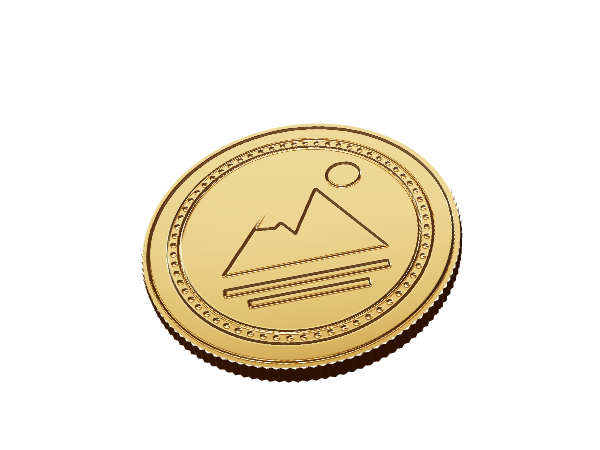
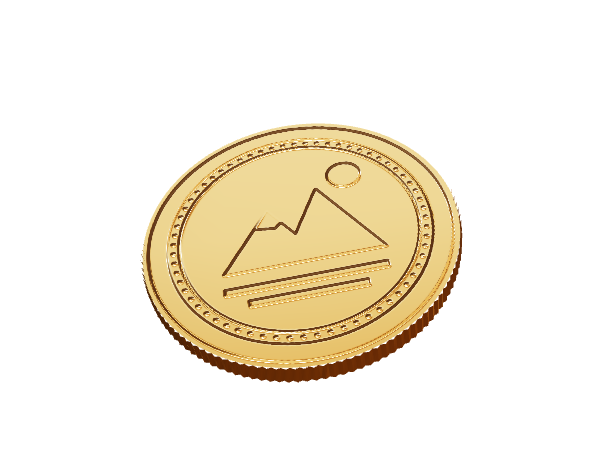
v6 stage 3: motion polish and a one-command deliverables script
- The thrower's hand rises, pulls back and flicks on the release.
- Card 1: the dice keep turning through the hang. Card 7: bigger dice.
- The coin stays gold while it tumbles (warm walls in its environment).
- tools/derive.sh levels the master to -16 LUFS and builds the screen
  loop, the 15 s cut (all cut points on beats) and the chat copies.

Claude-Session: https://claude.ai/code/session_01V1tqCn5oqZFzwntx9fbcEH

diff --git a/commercial/dice-explainer/compositions/s1.html b/commercial/dice-explainer/compositions/s1.html
@@ -49,9 +49,9 @@ tl.fromTo("#s1-hand", { y: 260, rotation: 4 }, { y: -40, rotation: -8, duration:
 tl.to("#s1-hand", { y: 30, rotation: -12, duration: 0.7, ease: "power1.out" }, 0.2917);
 tl.to("#s1-hand", { y: 700, rotation: -20, duration: 1.3, ease: "power2.in" }, 0.9917);
 DiceKit.bake(tl,"#s1-dA",0.0000,["x","y","scale","opacity"],[[215,620,0.3,0],[215,620,0.3,0],[215,620,0.3,0],[215,620,0.3,0],[215,620,0.3,0],[215,620,0.3,0],[215,620,0.3,0],[215.0,620.0,0.3,1],[189.2,536.9,0.384,1],[165.6,461.0,0.461,1],[144.0,391.9,0.531,1],[124.4,329.6,0.595,1],[106.7,273.9,0.653,1],[90.7,224.4,0.705,1],[76.4,181.0,0.751,1],[63.7,143.3,0.793,1],[52.5,110.9,0.829,1],[42.7,83.6,0.861,1],[34.2,60.9,0.889,1],[26.9,42.5,0.912,1],[20.7,27.9,0.933,1],[15.6,16.7,0.949,1],[11.3,8.4,0.963,1],[8.0,2.8,0.974,1],[5.3,-0.8,0.983,1],[3.4,-2.7,0.989,1],[1.9,-3.3,0.994,1],[1.0,-3.0,0.997,1],[0.4,-2.1,0.999,1],[0.1,-1.2,1.0,1],[0.0,-0.3,1.0,1],[0.0,0.0,1.0,1],[-1.0,-0.5,1.002,1],[-2.1,-1.0,1.004,1],[-3.1,-1.5,1.006,1],[-4.2,-2.0,1.008,1],[-5.3,-2.5,1.011,1],[-6.4,-3.0,1.013,1],[-7.6,-3.6,1.016,1],[-9.0,-4.2,1.019,1],[-10.4,-4.9,1.023,1],[-12.0,-5.6,1.028,1],[-13.9,-6.5,1.033,1],[-15.9,-7.4,1.039,1],[-18.3,-8.5,1.047,1],[-21.0,-9.8,1.056,1],[-24.1,-11.2,1.067,1],[-27.7,-12.9,1.079,1],[-31.8,-14.8,1.094,1],[-36.4,-17.0,1.111,1],[-41.8,-19.5,1.131,1],[-47.8,-22.3,1.154,1],[-54.7,-25.5,1.181,1],[-62.5,-29.2,1.211,1],[-71.3,-33.3,1.245,1],[-81.1,-37.9,1.284,1],[-92.1,-43.0,1.328,1],[-104.4,-48.7,1.377,1],[-118.1,-55.1,1.432,1],[-133.3,-62.2,1.492,1]]);
-DiceKit.spin(tl,"#s1-dA",0.0000,6,[0,0,0,0,0,0,0,0,1,1,2,3,4,4,5,6,7,7,8,9,10,10,11,12,13,13,14,15,16,16,17,17,17,17,18,18,18,18,19,19,19,19,19,20,20,20,20,20,21,21,21,21,21,22,22,22,22,23,23,23]);
+DiceKit.spin(tl,"#s1-dA",0.0000,6,[0,0,0,0,0,0,0,0,1,2,3,4,5,6,7,8,8,9,10,11,11,12,13,13,14,15,15,16,16,17,17,18,18,19,19,19,20,20,20,21,21,21,21,22,22,22,22,22,22,23,23,23,23,23,23,23,23,23,23,23]);
 DiceKit.bake(tl,"#s1-dB",0.0000,["x","y","scale","opacity"],[[-200,480,0.3,0],[-200,480,0.3,0],[-200,480,0.3,0],[-200,480,0.3,0],[-200,480,0.3,0],[-200,480,0.3,0],[-200,480,0.3,0],[-200.0,480.0,0.3,1],[-176.0,413.7,0.384,1],[-154.1,353.1,0.461,1],[-134.0,298.1,0.531,1],[-115.7,248.6,0.595,1],[-99.2,204.4,0.653,1],[-84.4,165.4,0.705,1],[-71.1,131.3,0.751,1],[-59.3,101.8,0.793,1],[-48.8,76.8,0.829,1],[-39.7,55.8,0.861,1],[-31.8,38.7,0.889,1],[-25.0,25.0,0.912,1],[-19.3,14.4,0.933,1],[-14.5,6.5,0.949,1],[-10.5,1.1,0.963,1],[-7.4,-2.4,0.974,1],[-5.0,-4.3,0.983,1],[-3.1,-4.9,0.989,1],[-1.8,-4.5,0.994,1],[-0.9,-3.6,0.997,1],[-0.4,-2.4,0.999,1],[-0.1,-1.2,1.0,1],[-0.0,-0.3,1.0,1],[0.0,0.0,1.0,1],[1.0,0.3,1.002,1],[2.1,0.7,1.004,1],[3.1,1.0,1.006,1],[4.2,1.4,1.008,1],[5.3,1.8,1.011,1],[6.4,2.1,1.013,1],[7.6,2.5,1.016,1],[9.0,3.0,1.019,1],[10.4,3.5,1.023,1],[12.0,4.0,1.028,1],[13.9,4.6,1.033,1],[15.9,5.3,1.039,1],[18.3,6.1,1.047,1],[21.0,7.0,1.056,1],[24.1,8.0,1.067,1],[27.7,9.2,1.079,1],[31.8,10.6,1.094,1],[36.4,12.1,1.111,1],[41.8,13.9,1.131,1],[47.8,15.9,1.154,1],[54.7,18.2,1.181,1],[62.5,20.8,1.211,1],[71.3,23.8,1.245,1],[81.1,27.0,1.284,1],[92.1,30.7,1.328,1],[104.4,34.8,1.377,1],[118.1,39.4,1.432,1],[133.3,44.4,1.492,1]]);
-DiceKit.spin(tl,"#s1-dB",0.0000,5,[0,0,0,0,0,0,0,0,1,1,2,3,4,4,5,6,7,7,8,9,10,10,11,12,13,13,14,15,16,16,17,17,17,17,18,18,18,18,19,19,19,19,19,20,20,20,20,20,21,21,21,21,21,22,22,22,22,23,23,23]);
+DiceKit.spin(tl,"#s1-dB",0.0000,5,[0,0,0,0,0,0,0,0,1,2,3,4,5,6,7,8,8,9,10,11,11,12,13,13,14,15,15,16,16,17,17,18,18,19,19,19,20,20,20,21,21,21,21,22,22,22,22,22,22,23,23,23,23,23,23,23,23,23,23,23]);
 
       window.__timelines["s1"] = tl;
     })();

diff --git a/commercial/dice-explainer/compositions/s7.html b/commercial/dice-explainer/compositions/s7.html
@@ -33,10 +33,10 @@
 #root { --glow: 68%; }</style>
   <div id="root" data-composition-id="s7" data-width="1080" data-height="1920" dir="rtl" lang="he">
 
-<div class="h" style="top:196px;font-size:112px">דאבל 1 · 2 · 3</div>
-<div id="s7-shA" class="shd" style="left:389px;top:416px;width:170px;height:71px;opacity:0.8" data-layout-ignore></div><div id="s7-shB" class="shd" style="left:527px;top:416px;width:170px;height:71px;opacity:0.8" data-layout-ignore></div>
-<div id="s7-dA" class="die" data-faces="1,2,3" data-v="a" style="left:409px;top:339px;width:122px;height:122px;rotate:-8deg"></div><div id="s7-dB" class="die" data-faces="1,2,3" data-v="b" style="left:549px;top:339px;width:122px;height:122px;rotate:7deg"></div>
-<div class="big foil" id="s7-pct" style="top:512px;font-size:300px"><span class="ltr">−50%*</span></div>
+<div class="h" style="top:190px;font-size:112px">דאבל 1 · 2 · 3</div>
+<div id="s7-shA" class="shd" style="left:362px;top:442px;width:200px;height:84px;opacity:0.8" data-layout-ignore></div><div id="s7-shB" class="shd" style="left:524px;top:442px;width:200px;height:84px;opacity:0.8" data-layout-ignore></div>
+<div id="s7-dA" class="die" data-faces="1,2,3" data-v="a" style="left:387px;top:353px;width:142px;height:142px;rotate:-8deg"></div><div id="s7-dB" class="die" data-faces="1,2,3" data-v="b" style="left:549px;top:353px;width:142px;height:142px;rotate:7deg"></div>
+<div class="big foil" id="s7-pct" style="top:524px;font-size:300px"><span class="ltr">−50%*</span></div>
 <div class="sub" style="top:826px;font-size:58px">על כל החשבון של השולחן</div>
 <img id="s7-rc" class="art" src="assets/img/receipt.png" alt="" style="left:245px;top:900px;width:590px;height:852px;rotate:-4deg" data-layout-ignore>
 <div id="s7-stamp" style="position:absolute;left:372px;top:1318px;width:340px;height:150px;rotate:-13deg;border:8px solid #b3261e;border-radius:18px;display:grid;place-items:center;
@@ -48,13 +48,13 @@
       const tl = gsap.timeline({ paused: true });
       DiceKit.mount(["#s7-dA","#s7-dB"]);
       DiceKit.spin(tl,"#s7-dA",0.2917,2,[16,17,18,19,20,21,22,23,-1]);
-tl.to("#s7-dA", { y: -54, duration: 0.1667, ease: "power2.out", yoyo: true, repeat: 1 }, 0.2917);
+tl.to("#s7-dA", { y: -38, duration: 0.1667, ease: "power2.out", yoyo: true, repeat: 1 }, 0.2917);
 DiceKit.spin(tl,"#s7-dB",0.3333,2,[16,17,18,19,20,21,22,23,-1]);
-tl.to("#s7-dB", { y: -54, duration: 0.1667, ease: "power2.out", yoyo: true, repeat: 1 }, 0.3333);
+tl.to("#s7-dB", { y: -38, duration: 0.1667, ease: "power2.out", yoyo: true, repeat: 1 }, 0.3333);
 DiceKit.spin(tl,"#s7-dA",0.9167,3,[16,17,18,19,20,21,22,23,-1]);
-tl.to("#s7-dA", { y: -54, duration: 0.1667, ease: "power2.out", yoyo: true, repeat: 1 }, 0.9167);
+tl.to("#s7-dA", { y: -38, duration: 0.1667, ease: "power2.out", yoyo: true, repeat: 1 }, 0.9167);
 DiceKit.spin(tl,"#s7-dB",0.9583,3,[16,17,18,19,20,21,22,23,-1]);
-tl.to("#s7-dB", { y: -54, duration: 0.1667, ease: "power2.out", yoyo: true, repeat: 1 }, 0.9583);
+tl.to("#s7-dB", { y: -38, duration: 0.1667, ease: "power2.out", yoyo: true, repeat: 1 }, 0.9583);
 
 tl.fromTo("#s7-stamp", { opacity: 0, scale: 1.9 }, { opacity: 0.86, scale: 1, duration: 0.2, ease: "power3.in" }, 2.3000);
 tl.fromTo("#s7-rc", { y: 0 }, { y: 10, duration: 0.07, ease: "power1.out", yoyo: true, repeat: 1 }, 2.5000);

diff --git a/commercial/dice-explainer/compositions/s6b.html b/commercial/dice-explainer/compositions/s6b.html
@@ -95,8 +95,10 @@
       DiceKit.mount(["#s6b-dA","#s6b-dB"]);
       
 DiceKit.pose(tl, "#s6b-hand", "fist", 0); DiceKit.pose(tl, "#s6b-hand", "release", 0.7083); DiceKit.pose(tl, "#s6b-hand", "open", 0.8333);
-tl.fromTo("#s6b-hand", { y: 190, rotation: 3 }, { y: -60, rotation: -4, duration: 0.7083, ease: "power3.out" }, 0);
-tl.to("#s6b-hand", { y: -30, duration: 0.3, ease: "power1.out" }, 0.7083);
+tl.fromTo("#s6b-hand", { y: 220, rotation: 3 }, { y: 10, rotation: 0, duration: 0.4183, ease: "power2.out" }, 0);
+tl.to("#s6b-hand", { y: 70, rotation: 4, duration: 0.17, ease: "sine.inOut" }, 0.4183);
+tl.to("#s6b-hand", { y: -70, rotation: -5, duration: 0.12, ease: "power2.in" }, 0.5883);
+tl.to("#s6b-hand", { y: -100, rotation: -6, duration: 0.3, ease: "power2.out" }, 0.7083);
 tl.to("#s6b-hand", { y: 640, rotation: 6, duration: 0.8, ease: "power2.in" }, 1.0083);
 DiceKit.bake(tl,"#s6b-dA",0.0000,["opacity"],[[0]]);
 DiceKit.bake(tl,"#s6b-dA",0.7083,["x","y","scale","opacity"],[[469.4,1650.4,1.008,1],[466.5,1505.4,0.986,1],[463.9,1373.0,0.963,1],[461.7,1253.5,0.937,1],[459.8,1146.9,0.91,1],[458.3,1053.1,0.883,1],[457.0,971.6,0.854,1],[456.1,901.9,0.825,1],[455.4,843.5,0.797,1],[455.0,795.6,0.768,1],[454.8,757.3,0.739,1],[454.3,713.6,0.718,1],[453.0,650.4,0.709,1],[451.9,595.2,0.698,1],[450.2,584.9,0.696,1],[447.7,615.3,0.7,1],[445.5,652.4,0.703,1],[443.3,674.3,0.707,1],[441.3,693.5,0.712,1],[439.4,714.9,0.715,1],[437.5,732.4,0.72,1],[435.7,748.3,0.724,1],[434.2,762.7,0.727,1],[432.8,775.4,0.73,1],[431.6,786.5,0.733,1],[430.6,795.8,0.735,1],[429.8,803.4,0.737,1],[429.1,809.2,0.738,1],[428.7,813.3,0.739,1],[428.5,815.5,0.74,1],[428.4,816.0,0.74,1]]);

diff --git a/commercial/dice-explainer/compositions/s6a.html b/commercial/dice-explainer/compositions/s6a.html
@@ -93,8 +93,10 @@
       DiceKit.mount(["#s6a-dA","#s6a-dB"]);
       
 DiceKit.pose(tl, "#s6a-hand", "fist", 0); DiceKit.pose(tl, "#s6a-hand", "release", 0.6250); DiceKit.pose(tl, "#s6a-hand", "open", 0.7500);
-tl.fromTo("#s6a-hand", { y: 190, rotation: 3 }, { y: -60, rotation: -4, duration: 0.6250, ease: "power3.out" }, 0);
-tl.to("#s6a-hand", { y: -30, duration: 0.3, ease: "power1.out" }, 0.6250);
+tl.fromTo("#s6a-hand", { y: 220, rotation: 3 }, { y: 10, rotation: 0, duration: 0.3350, ease: "power2.out" }, 0);
+tl.to("#s6a-hand", { y: 70, rotation: 4, duration: 0.17, ease: "sine.inOut" }, 0.3350);
+tl.to("#s6a-hand", { y: -70, rotation: -5, duration: 0.12, ease: "power2.in" }, 0.5050);
+tl.to("#s6a-hand", { y: -100, rotation: -6, duration: 0.3, ease: "power2.out" }, 0.6250);
 tl.to("#s6a-hand", { y: 640, rotation: 6, duration: 0.8, ease: "power2.in" }, 0.9250);
 DiceKit.bake(tl,"#s6a-dA",0.0000,["opacity"],[[0]]);
 DiceKit.bake(tl,"#s6a-dA",0.6250,["x","y","scale","opacity"],[[469.4,1650.4,1.008,1],[468.3,1517.0,0.989,1],[467.4,1394.9,0.968,1],[466.8,1284.5,0.945,1],[466.5,1186.0,0.921,1],[466.3,1099.3,0.895,1],[466.4,1024.0,0.868,1],[466.6,959.9,0.841,1],[467.1,906.4,0.813,1],[467.6,862.8,0.785,1],[468.3,828.5,0.757,1],[468.7,788.1,0.736,1],[468.1,727.4,0.727,1],[467.8,674.4,0.718,1],[467.6,629.3,0.706,1],[467.6,591.8,0.694,1],[466.8,607.1,0.692,1],[465.5,626.4,0.696,1],[464.4,643.3,0.7,1],[463.2,662.3,0.703,1],[462.2,677.4,0.706,1],[461.2,691.0,0.71,1],[460.3,703.0,0.713,1],[459.6,713.4,0.715,1],[458.9,722.2,0.717,1],[458.4,729.3,0.719,1],[458.0,734.7,0.72,1],[457.8,738.4,0.721,1],[457.6,740.4,0.722,1],[457.6,740.8,0.722,1]]);

diff --git a/commercial/dice-explainer/compositions/s8.html b/commercial/dice-explainer/compositions/s8.html
@@ -53,13 +53,13 @@
       const tl = gsap.timeline({ paused: true });
       DiceKit.mount(["#s8-dA","#s8-dB"]);
       DiceKit.spin(tl,"#s8-dA",0.2917,5,[16,17,18,19,20,21,22,23,-1]);
-tl.to("#s8-dA", { y: -54, duration: 0.1667, ease: "power2.out", yoyo: true, repeat: 1 }, 0.2917);
+tl.to("#s8-dA", { y: -38, duration: 0.1667, ease: "power2.out", yoyo: true, repeat: 1 }, 0.2917);
 DiceKit.spin(tl,"#s8-dB",0.3333,5,[16,17,18,19,20,21,22,23,-1]);
-tl.to("#s8-dB", { y: -54, duration: 0.1667, ease: "power2.out", yoyo: true, repeat: 1 }, 0.3333);
+tl.to("#s8-dB", { y: -38, duration: 0.1667, ease: "power2.out", yoyo: true, repeat: 1 }, 0.3333);
 DiceKit.spin(tl,"#s8-dA",0.9167,6,[16,17,18,19,20,21,22,23,-1]);
-tl.to("#s8-dA", { y: -54, duration: 0.1667, ease: "power2.out", yoyo: true, repeat: 1 }, 0.9167);
+tl.to("#s8-dA", { y: -38, duration: 0.1667, ease: "power2.out", yoyo: true, repeat: 1 }, 0.9167);
 DiceKit.spin(tl,"#s8-dB",0.9583,6,[16,17,18,19,20,21,22,23,-1]);
-tl.to("#s8-dB", { y: -54, duration: 0.1667, ease: "power2.out", yoyo: true, repeat: 1 }, 0.9583);
+tl.to("#s8-dB", { y: -38, duration: 0.1667, ease: "power2.out", yoyo: true, repeat: 1 }, 0.9583);
 
 // the bill bursts on the jackpot beat; petals and gold leaf fall for the whole card
 document.querySelectorAll(".s8-piece").forEach((p) => {

diff --git a/commercial/dice-explainer/tools/props.html b/commercial/dice-explainer/tools/props.html
@@ -30,7 +30,11 @@ function studioEnv(gold = false) {
   panel(7, 1.0, "#9fb6ff", 0, 2.5, -5, 0, 0.2);
   panel(14, 14, "#2a1a12", 0, -2, 0, 0, Math.PI / 2);
   // for the coin: a big warm softbox up and behind, which a flat coin face mirrors towards the camera
-  if (gold) { panel(7, 3, "#fff1d6", 0, 4.5, -4.5, 0, 0.75); panel(3, 3, "#ffe7bf", -4, 3, 0, Math.PI / 2, 0); }
+  if (gold) {
+    panel(7, 3, "#fff1d6", 0, 4.5, -4.5, 0, 0.75); panel(3, 3, "#ffe7bf", -4, 3, 0, Math.PI / 2, 0);
+    // warm walls all round, so a coin still reads as gold while it tumbles
+    panel(9, 5, "#d9b06a", 5, 2, 0, Math.PI / 2, 0); panel(9, 5, "#e8c88a", 0, 2, 6, 0, 0); panel(9, 9, "#c79a52", 0, 8, 0, 0, Math.PI / 2);
+  }
   const pm = new T.PMREMGenerator(renderer);
   return pm.fromScene(s, 0.01).texture;
 }

diff --git a/commercial/dice-explainer/build.py b/commercial/dice-explainer/build.py
@@ -385,7 +385,8 @@ def hook_flight(dx0, dy0, out, n=60, launch=7):
         w = max(0.0, (t - 1.0) / hang)
         rows.append([r1(dx0 * (1 - e) + out[0] * (0.2 * w + 0.8 * w ** 4)), r1(dy0 * (1 - e) - 70 * math.sin(math.pi * u) * (1 - u) + out[1] * (0.2 * w + 0.8 * w ** 4)),
                      round(0.3 + 0.7 * e + 0.06 * w + 0.5 * w ** 4, 3), 1])
-    ks = [0] * launch + [round(i * 17 / 23) for i in range(24)] + [17 + round(i * 6 / (n - launch - 25)) for i in range(n - launch - 24)]
+    m = n - launch
+    ks = [0] * launch + [round(23 * (1 - (1 - i / (m - 1)) ** 2.4)) for i in range(m)]
     return rows, ks
 
 
@@ -640,8 +641,10 @@ def table_hand_js(hid, t0):
     """The thrower's fist comes up, opens on the release, and drops out of frame."""
     return f"""
 DiceKit.pose(tl, "#{hid}", "fist", 0); DiceKit.pose(tl, "#{hid}", "release", {t0:.4f}); DiceKit.pose(tl, "#{hid}", "open", {t0 + 3 / FPS:.4f});
-tl.fromTo("#{hid}", {{ y: 190, rotation: 3 }}, {{ y: -60, rotation: -4, duration: {t0:.4f}, ease: "power3.out" }}, 0);
-tl.to("#{hid}", {{ y: -30, duration: 0.3, ease: "power1.out" }}, {t0:.4f});
+tl.fromTo("#{hid}", {{ y: 220, rotation: 3 }}, {{ y: 10, rotation: 0, duration: {t0 - 0.29:.4f}, ease: "power2.out" }}, 0);
+tl.to("#{hid}", {{ y: 70, rotation: 4, duration: 0.17, ease: "sine.inOut" }}, {t0 - 0.29:.4f});
+tl.to("#{hid}", {{ y: -70, rotation: -5, duration: 0.12, ease: "power2.in" }}, {t0 - 0.12:.4f});
+tl.to("#{hid}", {{ y: -100, rotation: -6, duration: 0.3, ease: "power2.out" }}, {t0:.4f});
 tl.to("#{hid}", {{ y: 640, rotation: 6, duration: 0.8, ease: "power2.in" }}, {t0 + 0.3:.4f});
 """
 
@@ -727,7 +730,7 @@ sfx("s6b", beat(6), "sparkle", .5)
 
 # ===== 7. Prize: double 1, 2 or 3 = 50% off =====
 
-def flip_js(sel, face, t_land, n=8, lift=54):
+def flip_js(sel, face, t_land, n=8, lift=38):
     """A die hops and turns over onto `face`, landing exactly at t_land (the last n frames of that face's tumble)."""
     t0 = t_land - n / FPS
     return js_spin(sel, t0, face, list(range(24 - n, 24)) + [-1]) + (
@@ -744,10 +747,10 @@ def doubles_js(card_id, faces):
 
 
 card("s7", 8, f"""
-<div class="h" style="top:196px;font-size:112px">דאבל 1 · 2 · 3</div>
-{shadow("s7-shA", 474, 452, 170, .8)}{shadow("s7-shB", 612, 452, 170, .8)}
-{die("s7-dA", [1, 2, 3], 470, 400, 122, "a", -8)}{die("s7-dB", [1, 2, 3], 610, 400, 122, "b", 7)}
-<div class="big foil" id="s7-pct" style="top:512px;font-size:300px"><span class="ltr">−50%*</span></div>
+<div class="h" style="top:190px;font-size:112px">דאבל 1 · 2 · 3</div>
+{shadow("s7-shA", 462, 484, 200, .8)}{shadow("s7-shB", 624, 484, 200, .8)}
+{die("s7-dA", [1, 2, 3], 458, 424, 142, "a", -8)}{die("s7-dB", [1, 2, 3], 620, 424, 142, "b", 7)}
+<div class="big foil" id="s7-pct" style="top:524px;font-size:300px"><span class="ltr">−50%*</span></div>
 <div class="sub" style="top:826px;font-size:58px">על כל החשבון של השולחן</div>
 <img id="s7-rc" class="art" src="assets/img/receipt.png" alt="" style="left:245px;top:900px;width:590px;height:852px;rotate:-4deg" data-layout-ignore>
 <div id="s7-stamp" style="position:absolute;left:372px;top:1318px;width:340px;height:150px;rotate:-13deg;border:8px solid #b3261e;border-radius:18px;display:grid;place-items:center;
